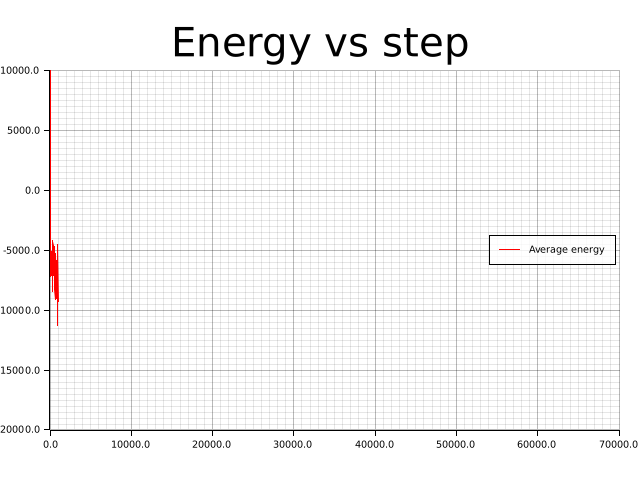
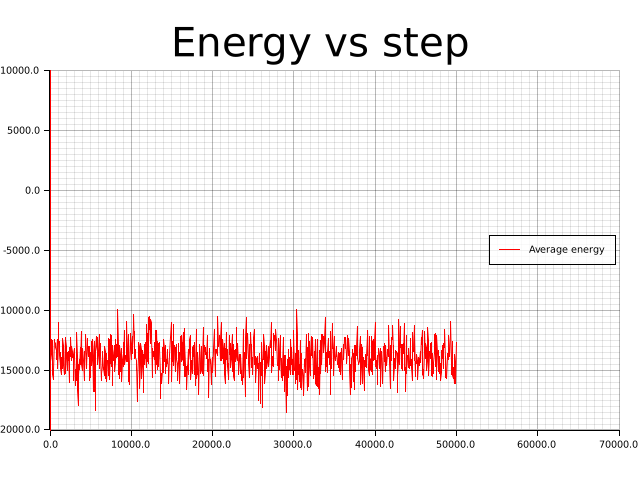
Adds comments for building the documentation

Changed region(s): [[0.0625, 0.5, 0.7188, 0.8438]]

diff --git a/src/common/point.rs b/src/common/point.rs
@@ -18,11 +18,13 @@ impl<const N:usize> Point<N> {
         let c = coord.map(Float::from);
         Self(c)
     }
-    
+
+    /// Creates a point with all dimensions equal to `scalar`    
     pub fn from_scalar(scalar:Float) -> Self {
         Self([scalar; N])
     }
 
+    /// Calculates the square of the eucleadian distance between `self` and another `Point<N>`
     pub fn squared_distance(&self, rhs:&Point<N>) -> Float {
         self.0.iter()
         .zip(rhs.0.iter())
@@ -30,10 +32,12 @@ impl<const N:usize> Point<N> {
         .sum()
     }
 
+    /// Calculates the eucledian distance between `self` and another `Point<N>`
     pub fn distance(&self, rhs:&Point<N>) -> Float {
         self.squared_distance(rhs).sqrt()
     }
 
+    /// Calculates the eucledian distance between `self` and the origin
     pub fn norm(&self) -> Float{
         self.distance(&Point::from_scalar(0.0))
     }
@@ -56,7 +60,10 @@ impl<const N:usize> Point<N> {
     pub fn to_slice(&self) -> [Float; N] {
         self.0
     }
-
+    
+    /// Given a point of dimensions N, this function scales the point position so that
+    /// it is bounded by a box of dimensions `grid`. Notice that it will scale each dimension
+    /// independently
     pub fn bound(&mut self, grid:Point<N>) -> Point<N> {
         let mut out = self.clone();
         for dim in 0..N {

diff --git a/src/core/hashcell.rs b/src/core/hashcell.rs
@@ -21,22 +21,30 @@ impl<const N:usize, E: Clone + Cardinality<N>> HashCell<N, E> {
         }
     }
 
+    /// Returns a slice of all elements inside the cell
     pub fn get_dwellers(&self) -> &[E] {
         self.dwellers.as_slice()
     }
 
+    /// Returns a mutable slice of all elements inside the cell
     pub fn get_mut_dwellers(&mut self) -> &mut [E] {
         self.dwellers.as_mut_slice()
     }
 
+    /// Overwrites the dwellers registered in this cell
     pub fn set_dwellers(&mut self, dwellers:Vec<E>) {
         self.dwellers = dwellers
     }
 
+    /// Adds a new dweller in the cell. It is added at the end of the
+    /// collection
     pub fn add_dweller(&mut self, dweller:E) {
         self.dwellers.push(dweller)
     }
 
+    /// This method removes the dweller of index `indx` from the cell, it
+    /// will panic if the indx is equal or greater than the number of dwellers
+    /// registered in the cell
     pub fn drop_dweller(&mut self, indx:usize) -> E{
         self.dwellers.remove(indx)
     }
@@ -87,7 +95,6 @@ impl<const N:usize, E: Clone + Cardinality<N>> IndexMut<usize> for HashCell<N, E
         &mut self.dwellers[index]   
     }
 }
-
 
 
 impl<const N: usize, E: Clone + Serialize + Cardinality<N>> Serialize for HashCell<N, E> {

diff --git a/examples/1_montecarlo/main.rs b/examples/1_montecarlo/main.rs
@@ -80,7 +80,7 @@ struct Args {
     n_particles: i32,
     #[arg(short, long, default_value_t = 12.0)]
     cutoff: f32,
-    #[arg(short, long, default_value_t = 1000)]
+    #[arg(short, long, default_value_t = 50000)]
     steps: usize
 }
 
@@ -159,9 +159,9 @@ fn main() {
 
     // Now we do the canonical Monte Carlo
     for step in 0..args.steps {
-        if step % 10 == 0{
+        if step % 50 == 0{
             history.push((step as f32, total_energy));
-            //println!("current energy: {}", total_energy);
+            total_energy = calc_box_energy(&grid, cutoff2)
         }
         
         for cell_index in grid.get_cells_index() {
@@ -233,7 +233,7 @@ fn main() {
         average_energy = (average_energy + total_energy) / 2.0;
 
     }
-    println!("{:?}",history);
+    //println!("{:?}",history);
     graph(history).unwrap();
     
     //println!("{}", total_energy);

diff --git a/src/common/mod.rs b/src/common/mod.rs
@@ -25,7 +25,7 @@ pub trait Cardinality<const N: usize> {
 /// the grid. The `deflate` method tries to convert an index of a cell to a high dimensional index using the size of
 /// the grid.
 /// 
-/// For readiness, if the dimensionality fails, it would panic instead of returning a `Result` type. 
+/// For readiness, if the dimensionality fails, it will panic instead of returning a `Result` type. 
 pub trait Idx {
     fn flatten<const N: usize>(&self, grid:[usize; N]) -> usize;
     fn deflate<const N: usize>(&self, grid:[usize;N]) -> [usize; N];
